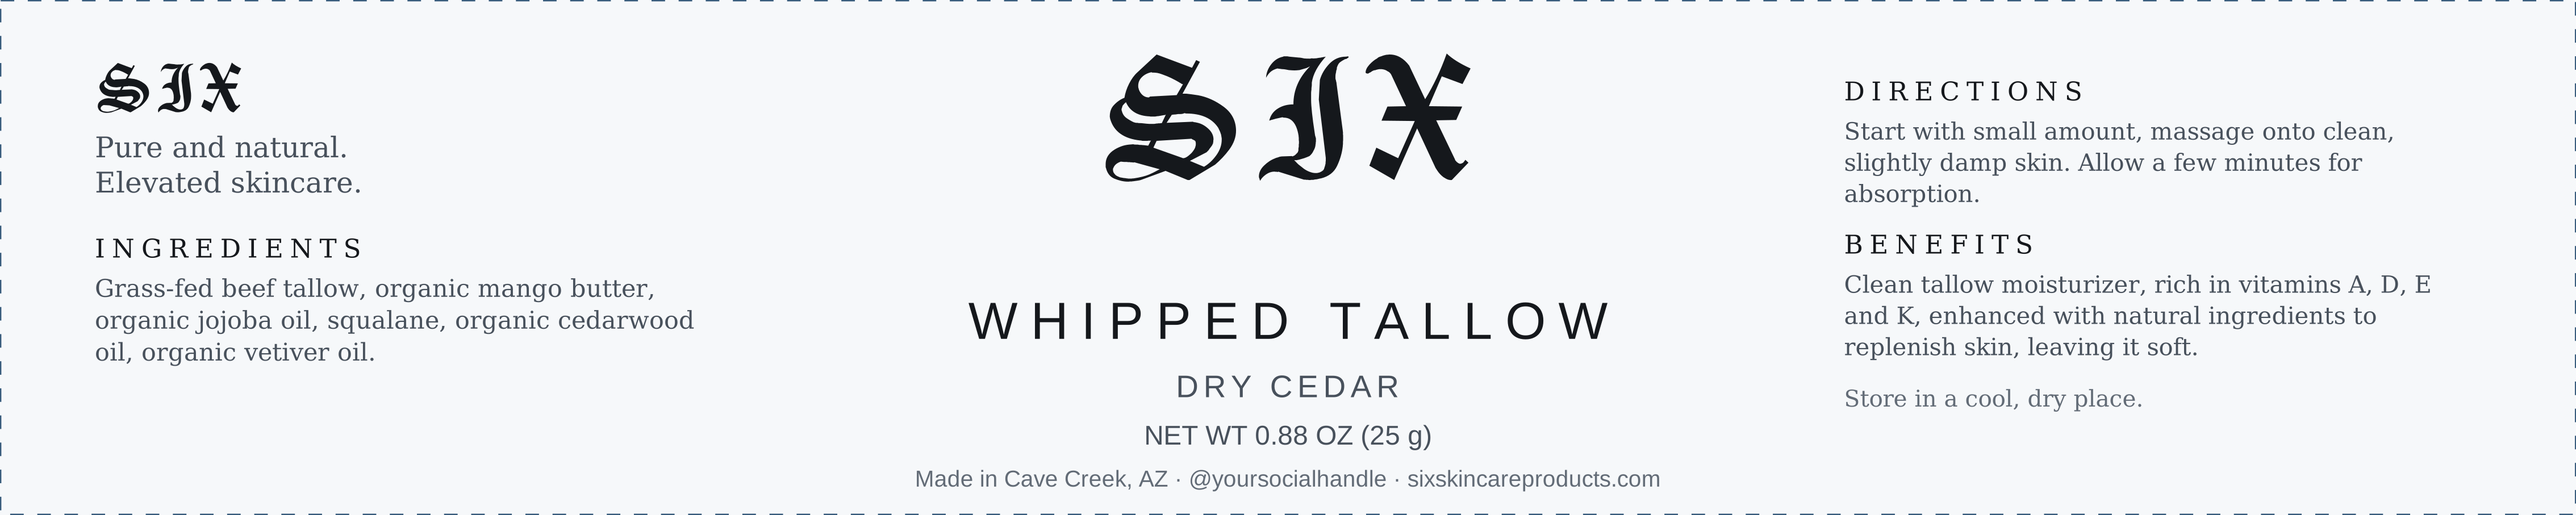
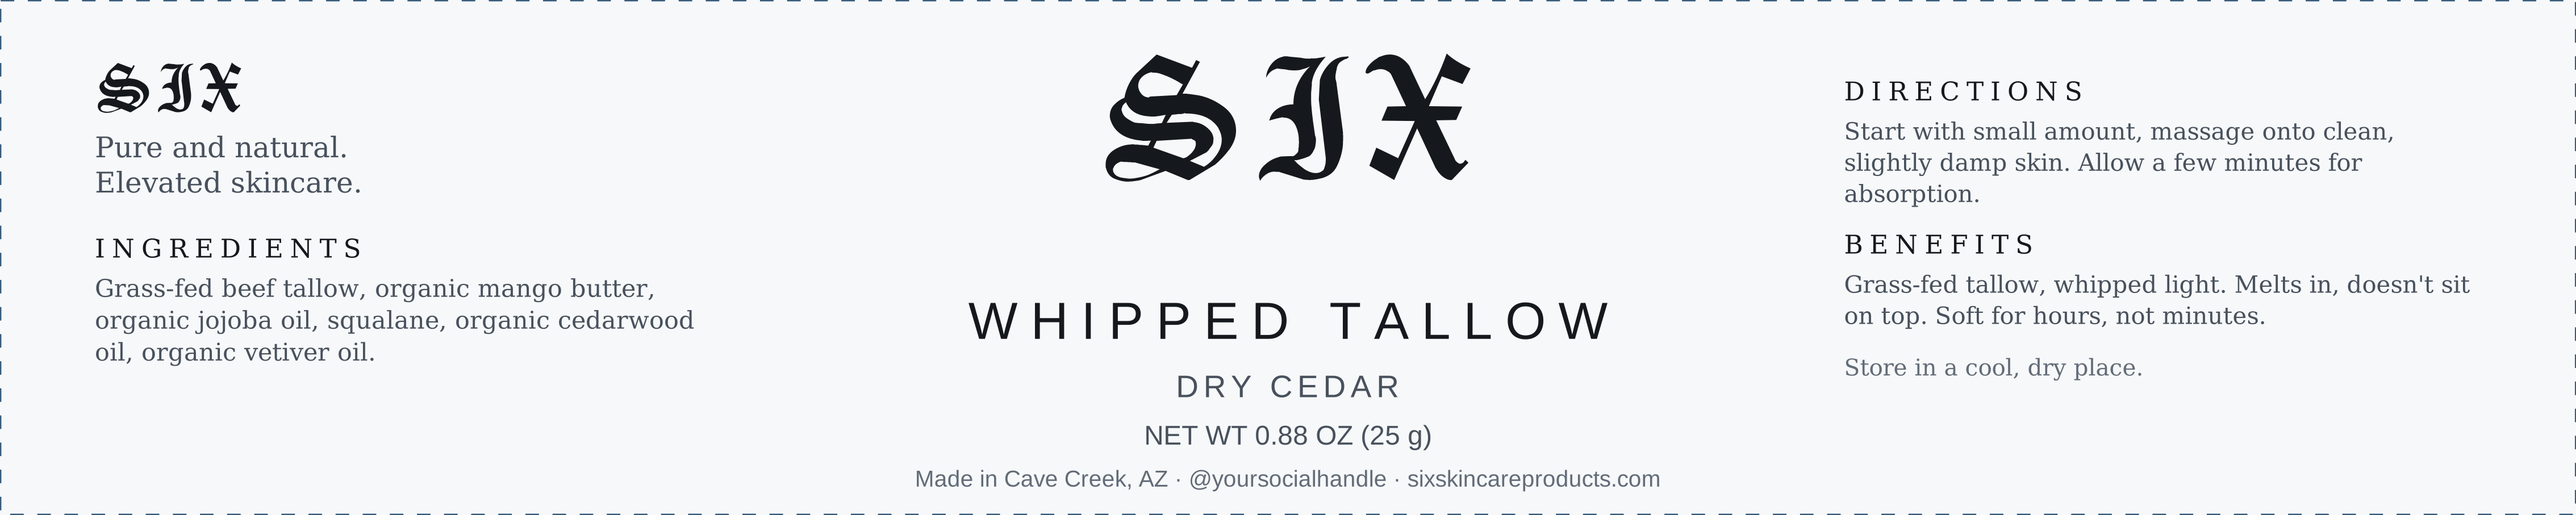
Rework the label benefits block
Three beats instead of a paragraph: what it is, what it does differently,
how long it lasts. No vitamin list, no "replenish" — the ingredients are
already in the left column, and what people distrust about an oil-based balm
is that it sits on top.

Claude-Session: https://claude.ai/code/session_01TYn4u9H1AxY32yb73P56yk

Changed region(s): [[0.7151, 0.5248, 0.9638, 0.8026]]

diff --git a/scripts/make-labels.py b/scripts/make-labels.py
@@ -88,12 +88,12 @@ DIRECTIONS = (
     "Allow a few minutes for absorption."
 )
 
-# Owner's wording. "Replenish skin" is the one phrase here that sits near the
-# cosmetic/drug line; "replenish moisture" would be plainly cosmetic. Raised
-# and kept as written.
+# Three beats, no paragraph. Says what it is, what it does differently, and
+# how long it lasts — all in appearance-and-feel language, which is the only
+# register a cosmetic gets.
 BENEFITS = (
-    "Clean tallow moisturizer, rich in vitamins A, D, E and K, enhanced with "
-    "natural ingredients to replenish skin, leaving it soft."
+    "Grass-fed tallow, whipped light. Melts in, doesn't sit on top. "
+    "Soft for hours, not minutes."
 )
 
 NET_PLACEHOLDER = "NET WT ______ OZ (______ g)"
